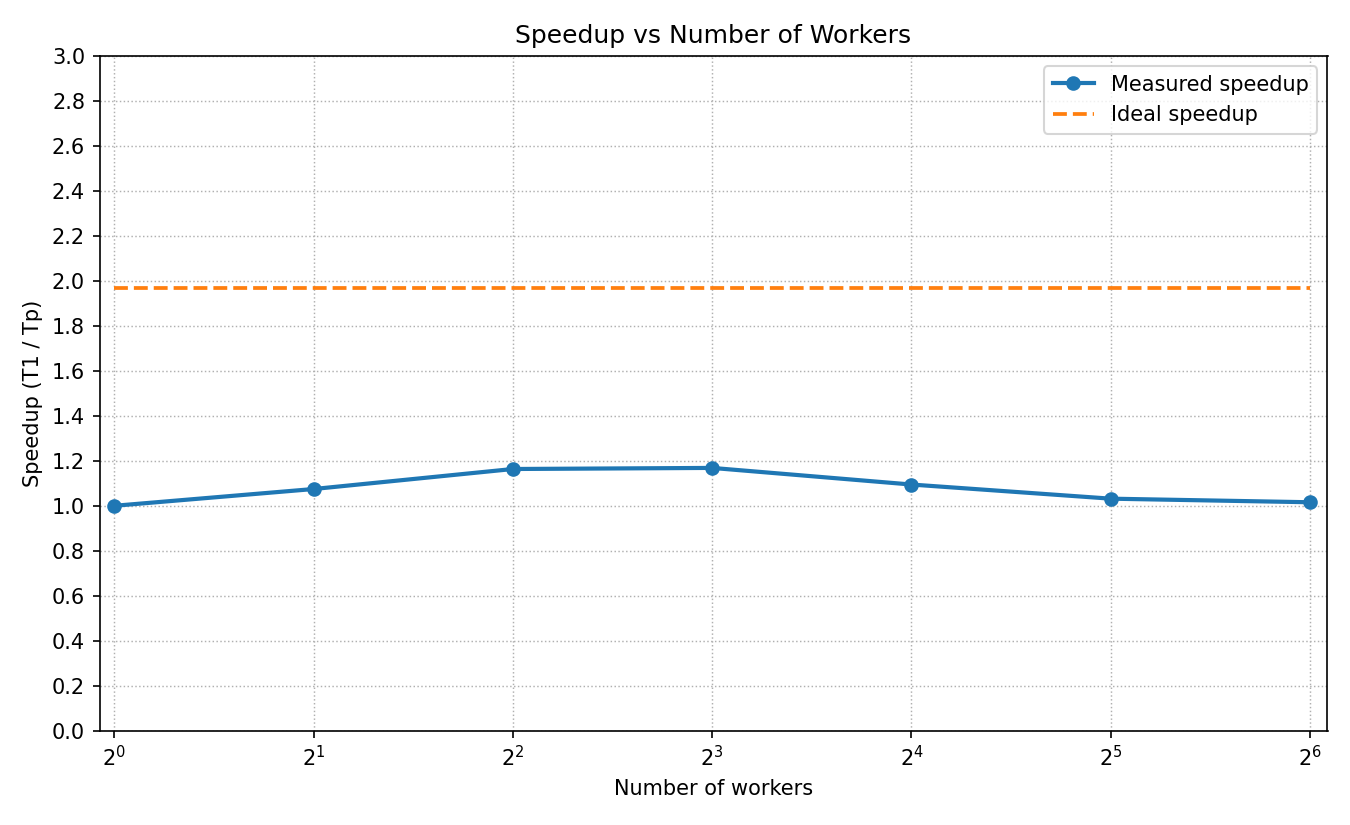
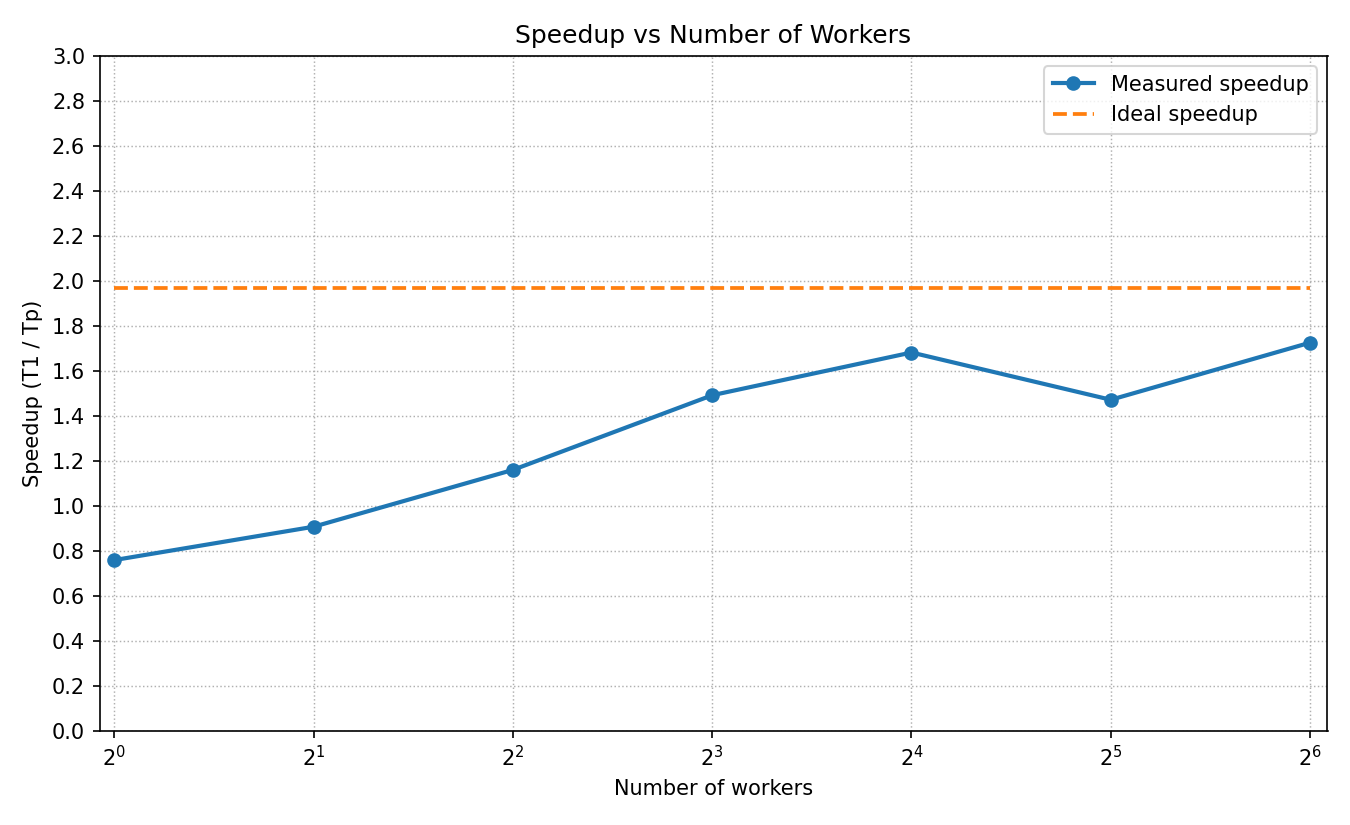
Fixed graphs script to use partd as baseline

diff --git a/Assignment2/graphs.py b/Assignment2/graphs.py
@@ -27,6 +27,15 @@ def parse_result_file(file_path: Path) -> tuple[int, float] | None:
     return workers, total_time
 
 
+def parse_total_time(file_path: Path) -> float | None:
+    """Return the total execution time from a sequential or parallel result file."""
+    text = file_path.read_text(encoding="utf-8", errors="replace")
+    total_time_match = TOTAL_TIME_RE.search(text)
+    if total_time_match is None:
+        return None
+    return float(total_time_match.group(1))
+
+
 def collect_results(results_dir: Path, pattern: str) -> list[tuple[int, float]]:
     parsed: list[tuple[int, float]] = []
     for file_path in sorted(results_dir.glob(pattern)):
@@ -38,7 +47,9 @@ def collect_results(results_dir: Path, pattern: str) -> list[tuple[int, float]]:
     return parsed
 
 
-def compute_speedup(results: list[tuple[int, float]]) -> list[tuple[int, float, float]]:
+def compute_speedup(
+    results: list[tuple[int, float]], baseline_time: float
+) -> list[tuple[int, float, float]]:
     if not results:
         return []
 
@@ -49,14 +60,10 @@ def compute_speedup(results: list[tuple[int, float]]) -> list[tuple[int, float, 
         if previous is None or total_time < previous:
             best_time_by_workers[workers] = total_time
 
-    if 1 not in best_time_by_workers:
-        raise ValueError("Could not find a baseline run with num_workers=1.")
-
-    baseline = best_time_by_workers[1]
     speedups: list[tuple[int, float, float]] = []
     for workers in sorted(best_time_by_workers):
         total_time = best_time_by_workers[workers]
-        speedup = baseline / total_time
+        speedup = baseline_time / total_time
         speedups.append((workers, total_time, speedup))
     return speedups
 
@@ -108,16 +115,33 @@ def main() -> None:
         default=None,
         help="Path to save the figure (e.g. speedup.png). If omitted, the plot is shown.",
     )
+    parser.add_argument(
+        "--baseline-file",
+        type=Path,
+        default=Path(__file__).parent / "output" / "assignment2c-huge.out",
+        help=(
+            "Path to the sequential baseline result file (default: "
+            "Assignment2/output/assignment2c-huge.out)."
+        ),
+    )
     args = parser.parse_args()
 
     results = collect_results(args.results_dir, args.pattern)
-    speedup_data = compute_speedup(results)
+    baseline_time = parse_total_time(args.baseline_file)
+
+    if baseline_time is None:
+        raise ValueError(
+            f"Could not parse a total execution time from baseline file '{args.baseline_file}'."
+        )
+
+    speedup_data = compute_speedup(results, baseline_time)
 
     if not speedup_data:
         raise ValueError(
             f"No parseable files found in '{args.results_dir}' matching pattern '{args.pattern}'."
         )
 
+    print(f"Sequential baseline: {baseline_time:.2f}s from {args.baseline_file}")
     print("Parsed runs:")
     for workers, total_time, speedup in speedup_data:
         print(f"workers={workers:>3}, time={total_time:>9.2f}s, speedup={speedup:>6.3f}")
@@ -126,6 +150,6 @@ def main() -> None:
 
 
 if __name__ == "__main__":
-	main()
+    main()
 
 
